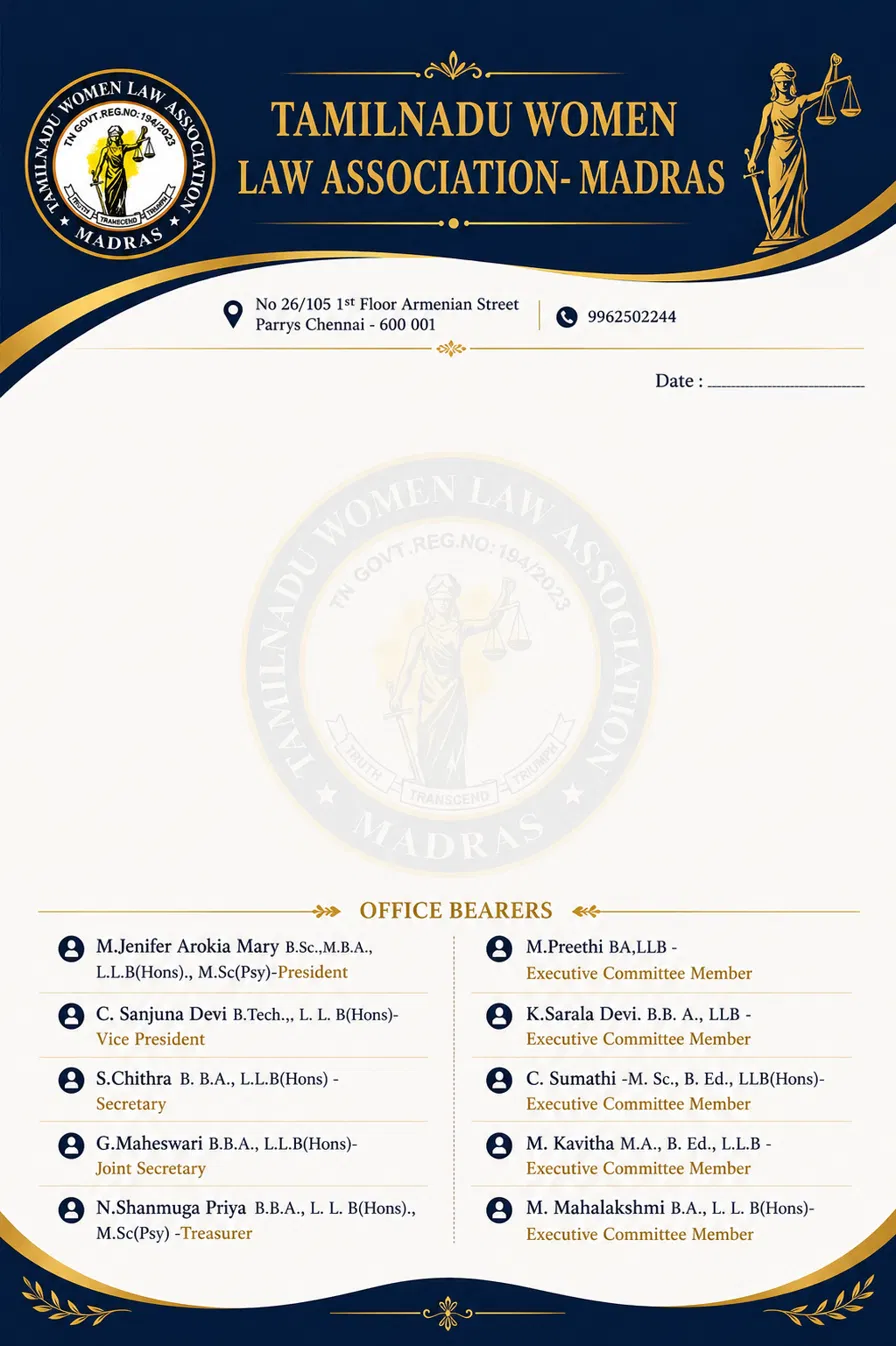
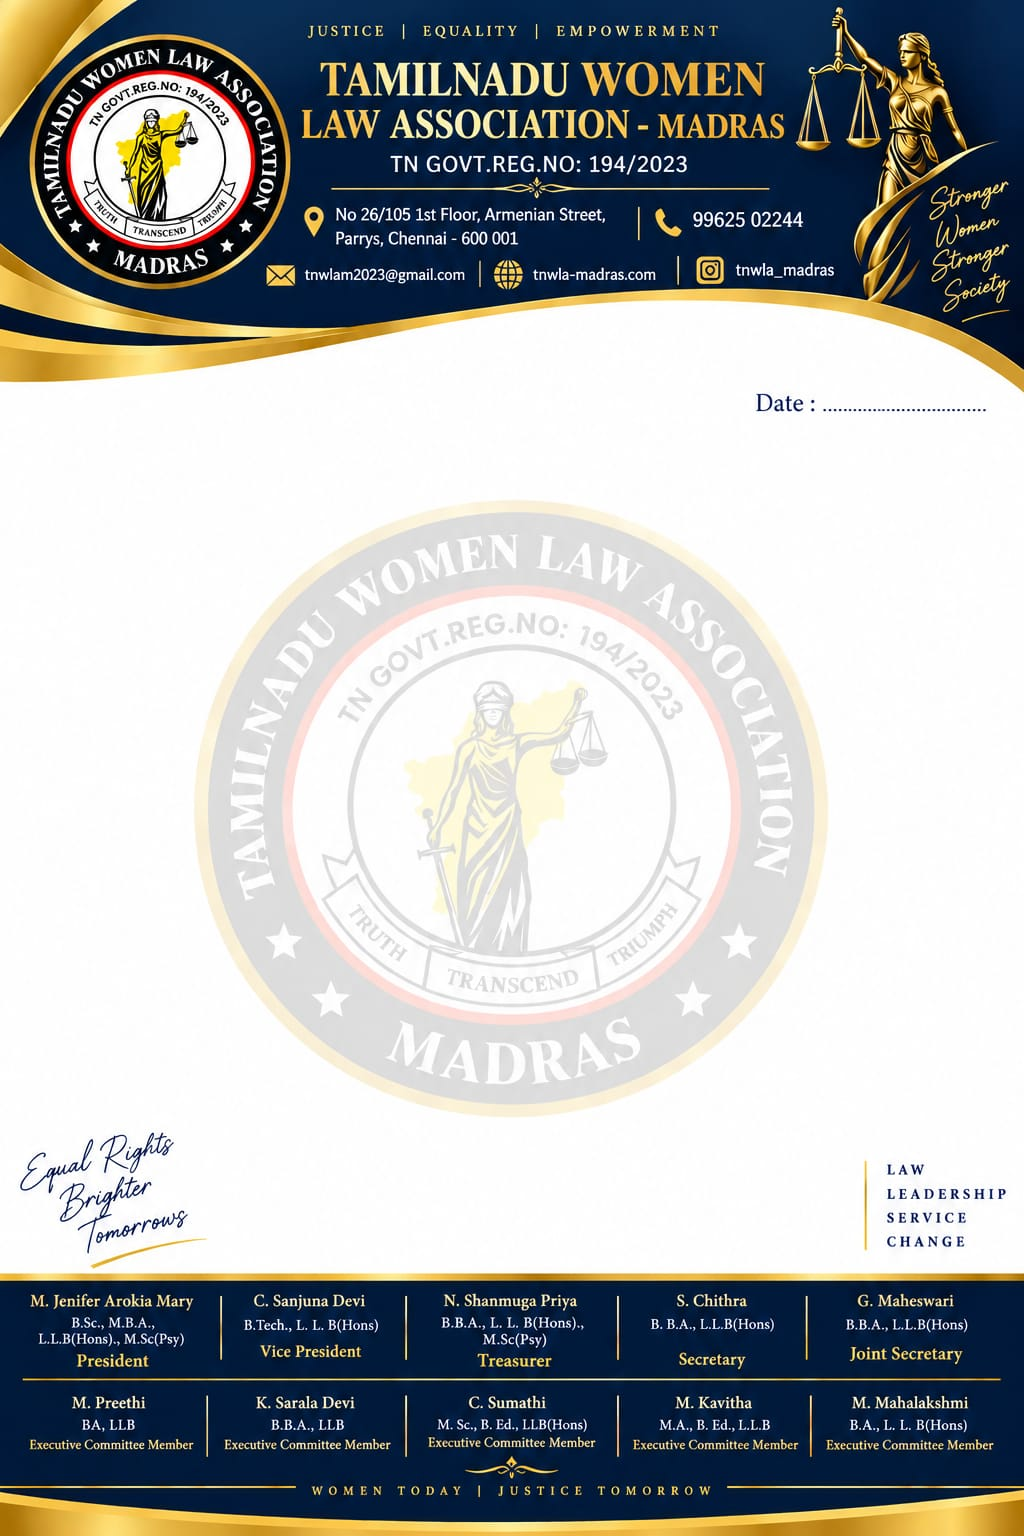
Update TNWLA letterhead and styling

diff --git a/components/admin/Letterhead.tsx b/components/admin/Letterhead.tsx
@@ -88,7 +88,7 @@ export type LetterForm = {
  * a signature orphaned onto a page of its own is the classic way an
  * auto-paginated letter looks machine-made.
  *
- * The sheet is now the association's own artwork
+ * The sheet is the association's own artwork
  * (/media/tnwla-letterhead-sheet.png) laid down as the page background,
  * full bleed, with the letter's real text overlaid on top of it — not
  * rebuilt band-by-band in the DOM. That is what makes the on-screen
@@ -96,25 +96,30 @@ export type LetterForm = {
  * watermark, office-bearers card and bottom flourish included, since
  * they are all pixels of the one image rather than a redrawing of it.
  *
+ * The artwork's own native canvas is 1024×1536, but the sheet is still
+ * rendered at 794×1123 (SHEET_W/SHEET_H, unchanged) — the <img> below
+ * stretches it to fit via objectFit:"fill", so every pixel position
+ * measured on the native artwork is carried over here scaled by
+ * 794/1024 horizontally and 1123/1536 vertically. Keeping SHEET_W/
+ * SHEET_H fixed means the stage/zoom math in SheetStage (which sizes
+ * itself off these same two numbers) never has to change.
+ *
  * The image still leaves a blank column for the letter itself — from
  * just under the "Date :" rule down to just above the office-bearers
  * card — and CONTENT_TOP/CONTENT_BOTTOM below are that column's pixel
- * bounds, measured directly off the artwork at its native 794×1123
- * canvas size. BODY_W and PAGE_BODY_H are what is left for the letter
- * once the column's own padding is taken out.
+ * bounds, measured directly off the artwork and scaled down as above.
+ * BODY_W and PAGE_BODY_H are what is left for the letter once the
+ * column's own padding is taken out.
  */
 const SHEET_W = 794;
 const SHEET_H = 1123;
-const DATE_ROW_Y = 317;     // baseline of the printed "Date :" rule
+const DATE_ROW_Y = 300;     // baseline of the printed "Date :" rule
 /* The typed Ref/Date value has to sit ON the artwork's own blank
-   underline, but ABOVE the dashes — not straddling them. Measured
-   directly off the artwork, the dashed rule itself sits ~5px BELOW
-   DATE_ROW_Y, so an 8px lift left the text's descenders and the 4×
-   export's anti-aliasing overlapping the dashes. 17px clears it with
-   real breathing room while still reading as "on the line". */
+   dotted rule, but ABOVE the dots — not straddling them. 17px clears
+   it with real breathing room while still reading as "on the line". */
 const DATE_VALUE_LIFT = 17;
-const CONTENT_TOP = 348;    // top of the blank column, just under that rule
-const CONTENT_BOTTOM = 735; // just above the office-bearers card
+const CONTENT_TOP = 330;    // top of the blank column, just under that rule
+const CONTENT_BOTTOM = 805; // just above the office-bearers card
 const BODY_PAD_X = 44;
 const BODY_PAD_Y = 10;
 const BODY_H = CONTENT_BOTTOM - CONTENT_TOP;
@@ -746,10 +751,10 @@ function LetterSheet({
       <div style={{ position: "absolute", top: DATE_ROW_Y - DATE_VALUE_LIFT, left: BODY_PAD_X, fontFamily: "Georgia, serif", fontSize: 11, color: "#3a3a48" }}>
         {f.ref ? `Ref: ${f.ref}` : ""}
       </div>
-      {/* Sits above the artwork's own blank underline, which runs from
-          roughly x=610 to x=750 after the printed "Date :" label. */}
+      {/* Sits above the artwork's own dotted rule, which runs from
+          roughly x=638 to x=764 after the printed "Date :" label. */}
       <div style={{
-        position: "absolute", top: DATE_ROW_Y - DATE_VALUE_LIFT, left: 610, width: 140,
+        position: "absolute", top: DATE_ROW_Y - DATE_VALUE_LIFT, left: 638, width: 126,
         textAlign: "right", fontFamily: "Georgia, serif", fontSize: 11, color: "#3a3a48",
       }}>
         {first

diff --git a/config/harmonic.config.ts b/config/harmonic.config.ts
@@ -183,6 +183,13 @@ export type HarmonyCourse = {
 
 export const courses: HarmonyCourse[] = [
   {
+    id: "class-meditation", en: "Meditation on Twin Hearts", ta: "இரட்டை இதய தியானம்",
+    level: "Open session", duration: "Weekly · 90 minutes", fee: 0,
+    includes: ["Open to all", "No registration fee"],
+    desc: "A free weekly guided meditation, open to anyone whether or not they have taken a course. Come a little early the first time.",
+    descTa: "வாராந்திர இலவச வழிகாட்டப்பட்ட தியானம் — பாடநெறி எடுத்தவர்கள், எடுக்காதவர்கள் அனைவருக்கும் திறந்திருக்கிறது.",
+  },
+  {
     id: "class-basic", en: "Basic Pranic Healing", ta: "அடிப்படை பிராணிக் ஹீலிங்",
     level: "Level I", duration: "2 days · weekend", fee: 6000,
     includes: ["Course manual", "Practice materials", "Certificate of attendance", "Refreshments"],
@@ -202,13 +209,6 @@ export const courses: HarmonyCourse[] = [
     includes: ["Course manual", "Practice materials", "Certificate of attendance"],
     desc: "Working with emotional and mental energy. Levels I and II are prerequisites.",
     descTa: "உணர்வு மற்றும் மனநிலை ஆற்றலுடன் பணியாற்றுதல். நிலை I மற்றும் II முன்நிபந்தனை.",
-  },
-  {
-    id: "class-meditation", en: "Meditation on Twin Hearts", ta: "இரட்டை இதய தியானம்",
-    level: "Open session", duration: "Weekly · 90 minutes", fee: 0,
-    includes: ["Open to all", "No registration fee"],
-    desc: "A free weekly guided meditation, open to anyone whether or not they have taken a course. Come a little early the first time.",
-    descTa: "வாராந்திர இலவச வழிகாட்டப்பட்ட தியானம் — பாடநெறி எடுத்தவர்கள், எடுக்காதவர்கள் அனைவருக்கும் திறந்திருக்கிறது.",
   },
 ];
 

diff --git a/app/globals.css b/app/globals.css
@@ -336,7 +336,7 @@ body {
    explicitly when it has no saved override of its own (see
    lib/theme.ts), which is exactly what already happens today. */
 :root {
-  --type-scale: 1.15;
+  --type-scale: 1.1;
   --radius-scale: 1;
 }
 
